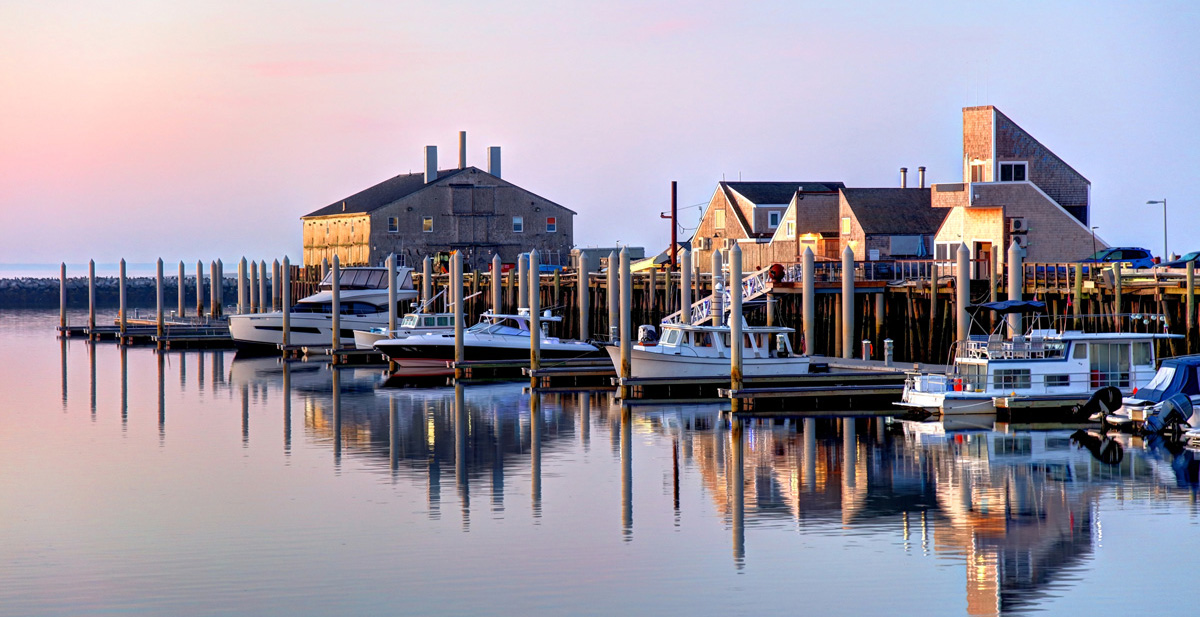
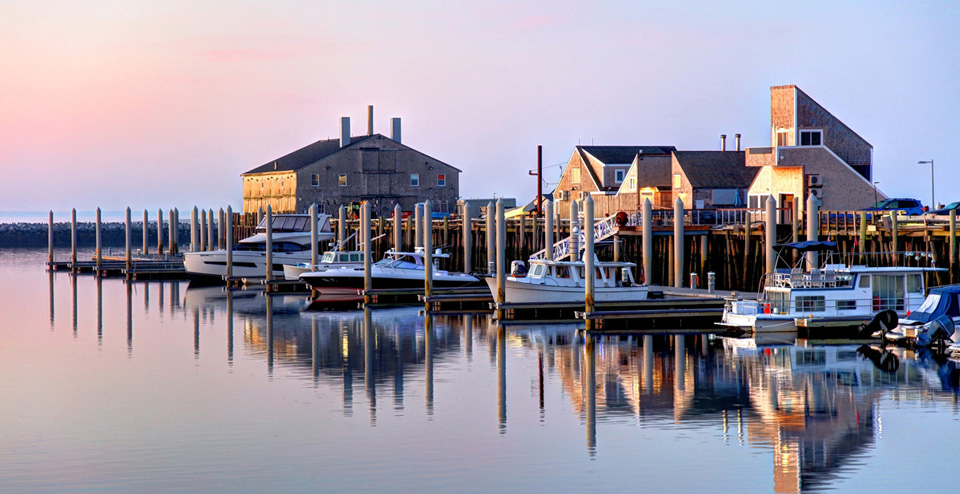
reduced image sizes and fixed thank you page

diff --git a/layouts/shortcodes/form-thank-you.html b/layouts/shortcodes/form-thank-you.html
@@ -1,1 +1,8 @@
-<div>Thank you!</div>
+<div class="row thank-you-wrapper" >
+	<header>
+		<h3>Thanks for joining us in BCP Cape Cod!</h3>
+	</header>
+</div>
+<p>
+	Please check your email and add us to your safe-senders list. If you do not receive our confirmation email in the next hour, please contact us!
+</p>

diff --git a/content/our_story.md b/content/our_story.md
@@ -2,7 +2,7 @@
 Title: "Our Story"
 description: "Our story of BCP"
 draft: false
-image: "images/hero.png"
+image: "images/hero.jpg"
 ---
 
 ## We opened in 2007 in Boston.
